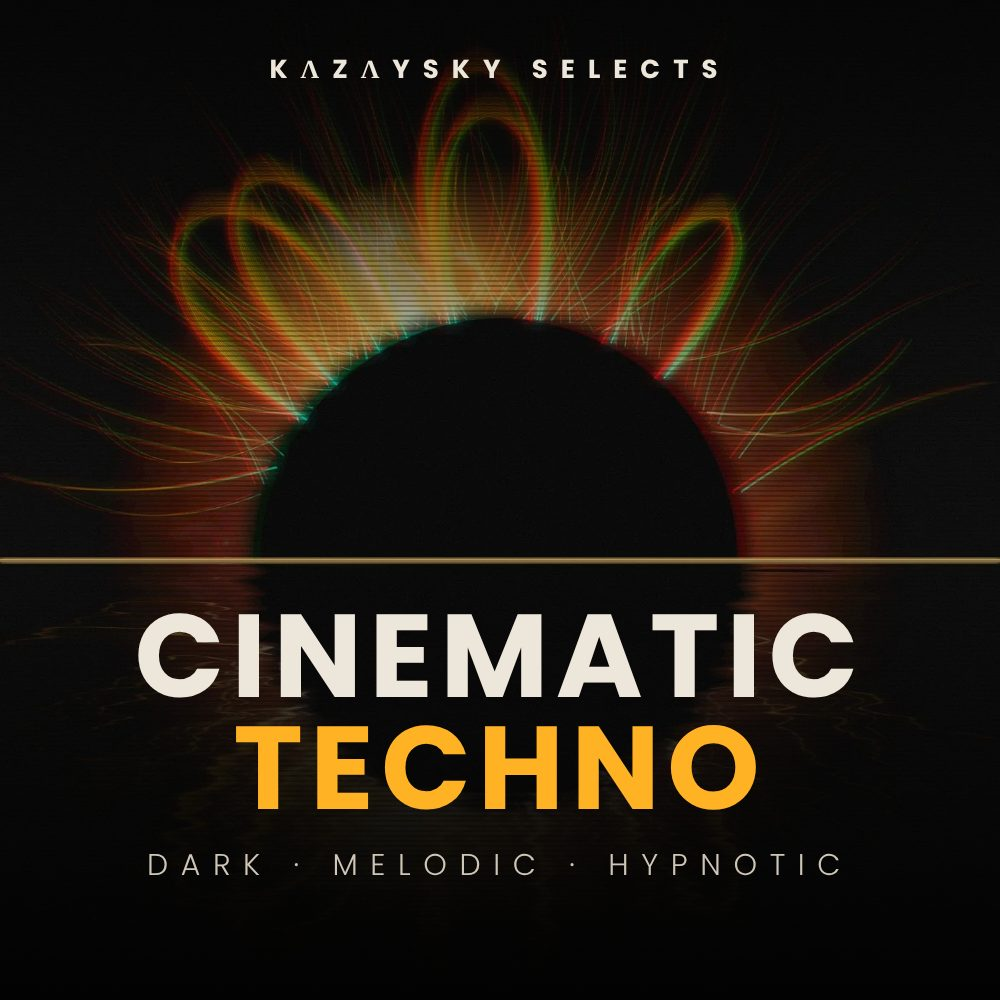
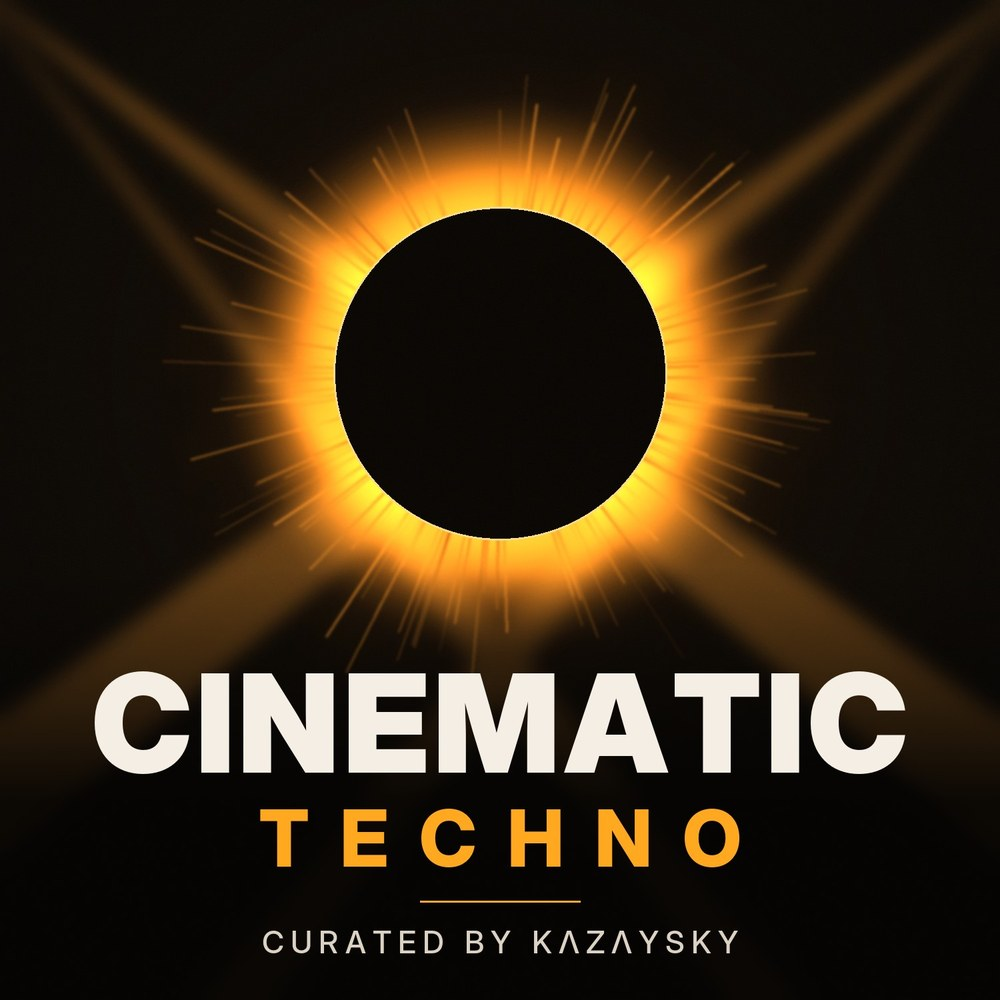
Playlist landing: link the Cinematic Techno 2026 Spotify playlist and new cover
Claude-Session: https://claude.ai/code/session_012oCoJyhBYHYSjuwTDVrgGn

diff --git a/playlist/index.html b/playlist/index.html
@@ -22,18 +22,18 @@
 </head>
 <body data-fb-content="Playlist Cinematic Techno">
 <main class="listen">
-  <img src="/assets/img/playlist-cinematic-techno.jpg" alt="Cinematic Techno playlist cover: a black sun with gold flares over dark water" width="1000" height="1000">
+  <img src="/assets/img/playlist-cinematic-techno.jpg" alt="Cinematic Techno playlist cover: a black sun with an amber corona and club light beams" width="1000" height="1000">
   <h1>Cinematic Techno</h1>
   <p class="by">Dark · melodic · hypnotic · updated weekly</p>
   <div class="stack">
-    <a id="pl" class="btn btn-amber" href="https://open.spotify.com/track/0CE114ATvCynCs5HVbDFrh" target="_blank" rel="noopener">Play on Spotify</a>
+    <a id="pl" class="btn btn-amber" href="https://open.spotify.com/playlist/22ZOrF1BVqkriotL8tzAof" target="_blank" rel="noopener">Play on Spotify</a>
   </div>
   <p class="note">Anyma, Massano, Argy, Innellea, Stephan Bodzin — and new music from a hidden studio in Warsaw. Follow the playlist so you don't lose it.</p>
   <a class="home" href="/">kazaysky.com</a>
 </main>
 <script>
 /* ← paste the Spotify playlist link between the quotes; until then the button opens Solar Flare */
-var PLAYLIST = '';
+var PLAYLIST = 'https://open.spotify.com/playlist/22ZOrF1BVqkriotL8tzAof';
 if (PLAYLIST) document.getElementById('pl').href = PLAYLIST;
 </script>
 <script src="/assets/pixel.js?v=1"></script>
